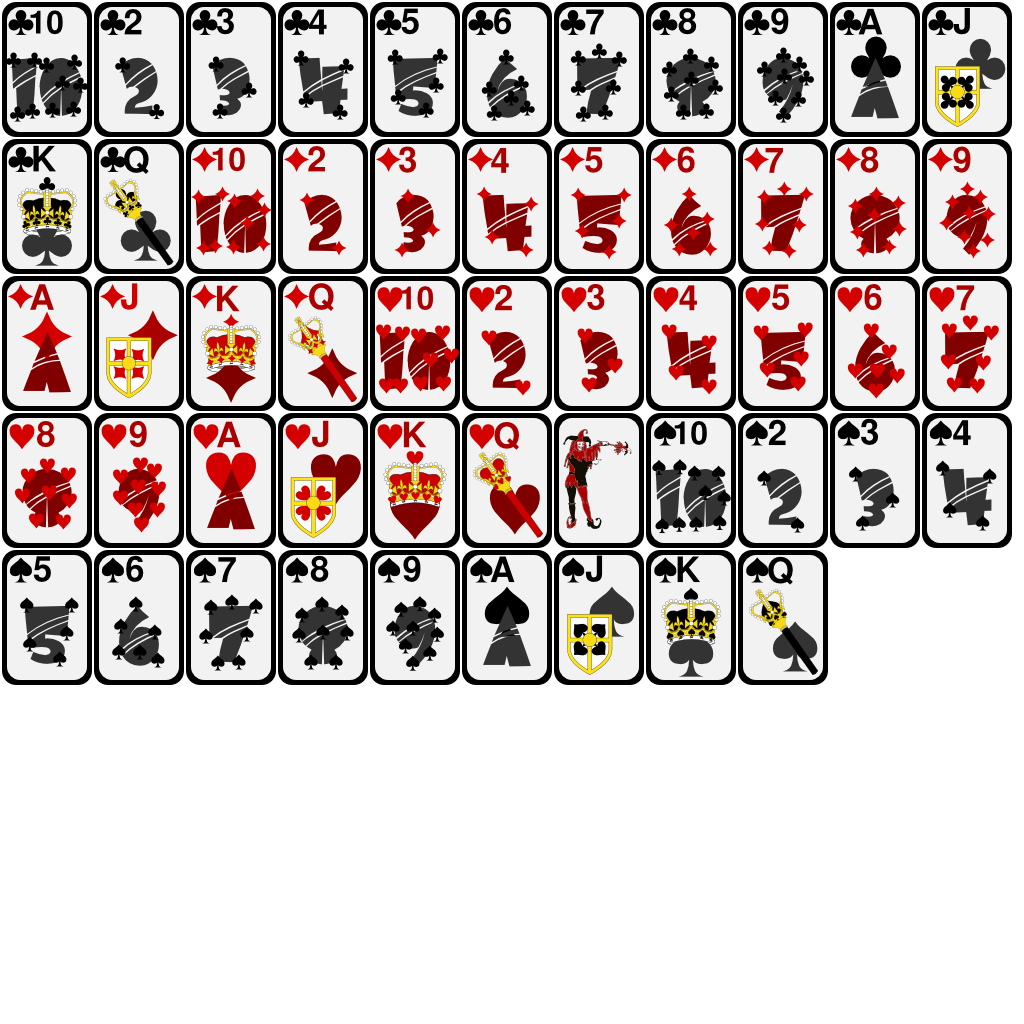
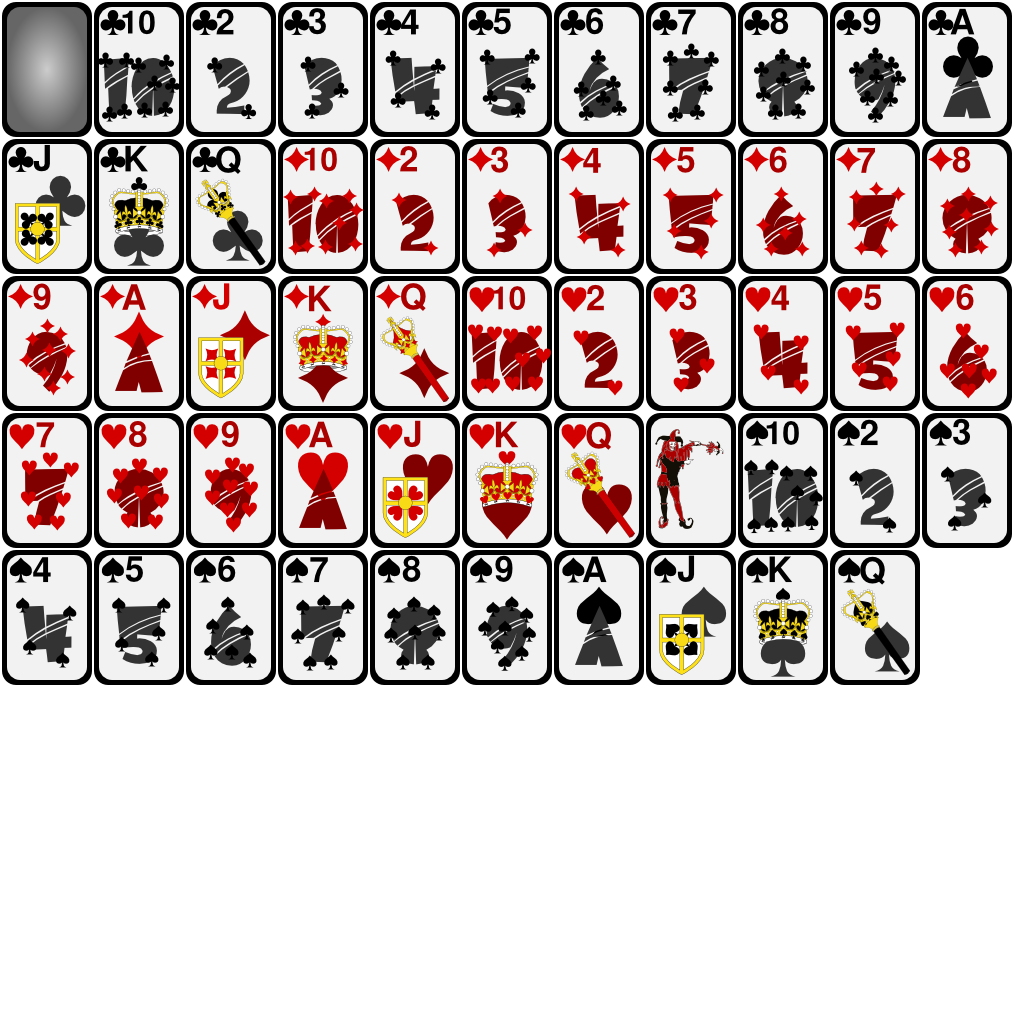
Working on collections/display
- now have dirty flag, dynamically size to card sorts
 - cards also have dirty flag, can be faceDown or selected

diff --git a/src/com/ahsgaming/superrummy/cards/Card.java b/src/com/ahsgaming/superrummy/cards/Card.java
@@ -2,7 +2,9 @@ package com.ahsgaming.superrummy.cards;
 
 import com.ahsgaming.superrummy.RummyGame;
 import com.badlogic.gdx.scenes.scene2d.Group;
+import com.badlogic.gdx.scenes.scene2d.InputEvent;
 import com.badlogic.gdx.scenes.scene2d.ui.Image;
+import com.badlogic.gdx.scenes.scene2d.utils.ClickListener;
 
 /**
  * valley-of-bones
@@ -16,18 +18,48 @@ public class Card extends Group {
     Values value;
     Suits suit;
 
-    Image image;
+    Image frontImage, backImage;
 
     RummyGame game;
+
+    boolean selected = false;
+    boolean faceDown = false;
+    boolean dirty = true;
 
     public Card(Values value, Suits suit) {
         super();
         this.value = value;
         this.suit = suit;
         this.game = RummyGame.instance;
-        this.image = new Image(game.textureService.createSprite(getCardString() + "_"));
-        this.addActor(this.image);
-        this.setSize(this.image.getWidth(), this.image.getHeight());
+        this.frontImage = new Image(game.textureService.createSprite(getCardString() + "_"));
+        this.backImage = new Image(game.textureService.createSprite("back"));
+        this.addActor(this.frontImage);
+        this.setSize(this.frontImage.getWidth(), this.frontImage.getHeight());
+
+        this.addListener(new ClickListener() {
+            @Override
+            public void clicked(InputEvent event, float x, float y) {
+                super.clicked(event, x, y);
+
+                toggleSelected();
+
+            }
+        });
+    }
+
+    @Override
+    public void act(float delta) {
+        super.act(delta);
+        if (dirty) {
+            if (faceDown) {
+                frontImage.remove();
+                this.addActorAt(0, backImage);
+            } else {
+                backImage.remove();
+                this.addActorAt(0, frontImage);
+            }
+        }
+        dirty = false;
     }
 
     public String getCardString() {                  // TODO handle NONE values (face down card)
@@ -52,5 +84,28 @@ public class Card extends Group {
                 returnVal += value.ordinal();
         }
         return returnVal;
+    }
+
+    public boolean isSelected() {
+        return selected;
+    }
+
+    public void setSelected(boolean selected) {
+        dirty = true;
+        this.selected = selected;
+    }
+
+    public void toggleSelected() {
+        dirty = true;
+        this.selected = !selected;
+    }
+
+    public boolean isFaceDown() {
+        return faceDown;
+    }
+
+    public void setFaceDown(boolean faceDown) {
+        dirty = true;
+        this.faceDown = faceDown;
     }
 }

diff --git a/src/com/ahsgaming/superrummy/cards/CardCollection.java b/src/com/ahsgaming/superrummy/cards/CardCollection.java
@@ -16,15 +16,43 @@ public class CardCollection extends Group {
     Array<Card> cards;
     Player owner;
 
+    boolean dirty = true;
+
+    boolean compressed = false;
+    boolean hidden = false;
+
     public CardCollection(Player owner) {
         super();
         this.owner = owner;
         cards = new Array<Card>();
     }
 
+    @Override
+    public void act(float delta) {
+        for (Card c: cards) if (c.dirty) dirty = true;
+        super.act(delta);
+
+        if (dirty) {
+            if (cards.size == 0) {
+                setSize (0, 0);
+                return;
+            }
+
+            int x = 0;
+            for (Card c: cards) {
+                c.setPosition(x, (c.isSelected() ? c.getHeight() * 0.25f : 0));
+                x += c.getWidth() * 0.75f;
+            }
+
+            setSize(x + cards.get(0).getWidth() * 0.25f, cards.get(0).getHeight());
+        }
+        dirty = false;
+    }
+
     public void addCard(Card card) {
         cards.add(card);
         this.addActor(card);
+        this.dirty = true;
     }
 
     public void addAll(Array<Card> cards) {
@@ -32,6 +60,7 @@ public class CardCollection extends Group {
         for (Card c: cards) {
             this.addActor(c);
         }
+        this.dirty = true;
     }
 
     public void addAll(CardCollection cards) {
@@ -39,6 +68,7 @@ public class CardCollection extends Group {
         for (Card c: cards.getCards()) {
             this.addActor(c);
         }
+        this.dirty = true;
     }
 
     public int indexOf(Card card) {
@@ -47,16 +77,19 @@ public class CardCollection extends Group {
 
     public boolean removeCard(Card card) {
         card.remove();
+        this.dirty = true;
         return cards.removeValue(card, true);
     }
 
     public Card removeCard(int index) {
         Card c = cards.removeIndex(index);
         c.remove();
+        this.dirty = true;
         return c;
     }
 
     public Card pop() {
+        this.dirty = true;
         return (cards.size > 0 ? cards.pop() : null);
     }
 

diff --git a/src/com/ahsgaming/superrummy/screens/LevelScreen.java b/src/com/ahsgaming/superrummy/screens/LevelScreen.java
@@ -73,12 +73,8 @@ public class LevelScreen extends AbstractScreen {
 		Gdx.app.log(RummyGame.LOG, "LevelScreen#show");
         grpLevel = new Group();
 
-        int x = 0;
-        for (Card c: currentPlayer.getHand().getCards()) {
-            grpLevel.addActor(c);
-            c.setX(x);
-            x += c.getWidth() * 0.75f;
-        }
+        grpLevel.addActor(currentPlayer.getHand());
+
 	}
 	
 	@Override
@@ -87,7 +83,6 @@ public class LevelScreen extends AbstractScreen {
 		
 		stage.addActor(grpLevel);
 
-
 	}
 
 	@Override
@@ -95,7 +90,7 @@ public class LevelScreen extends AbstractScreen {
 		super.render(delta);
 
 
-
+        currentPlayer.getHand().setPosition((stage.getWidth() - currentPlayer.getHand().getWidth()) * 0.5f, 0);
 	}
 	
 	public void addFloatingLabel(String text, float x, float y) {
